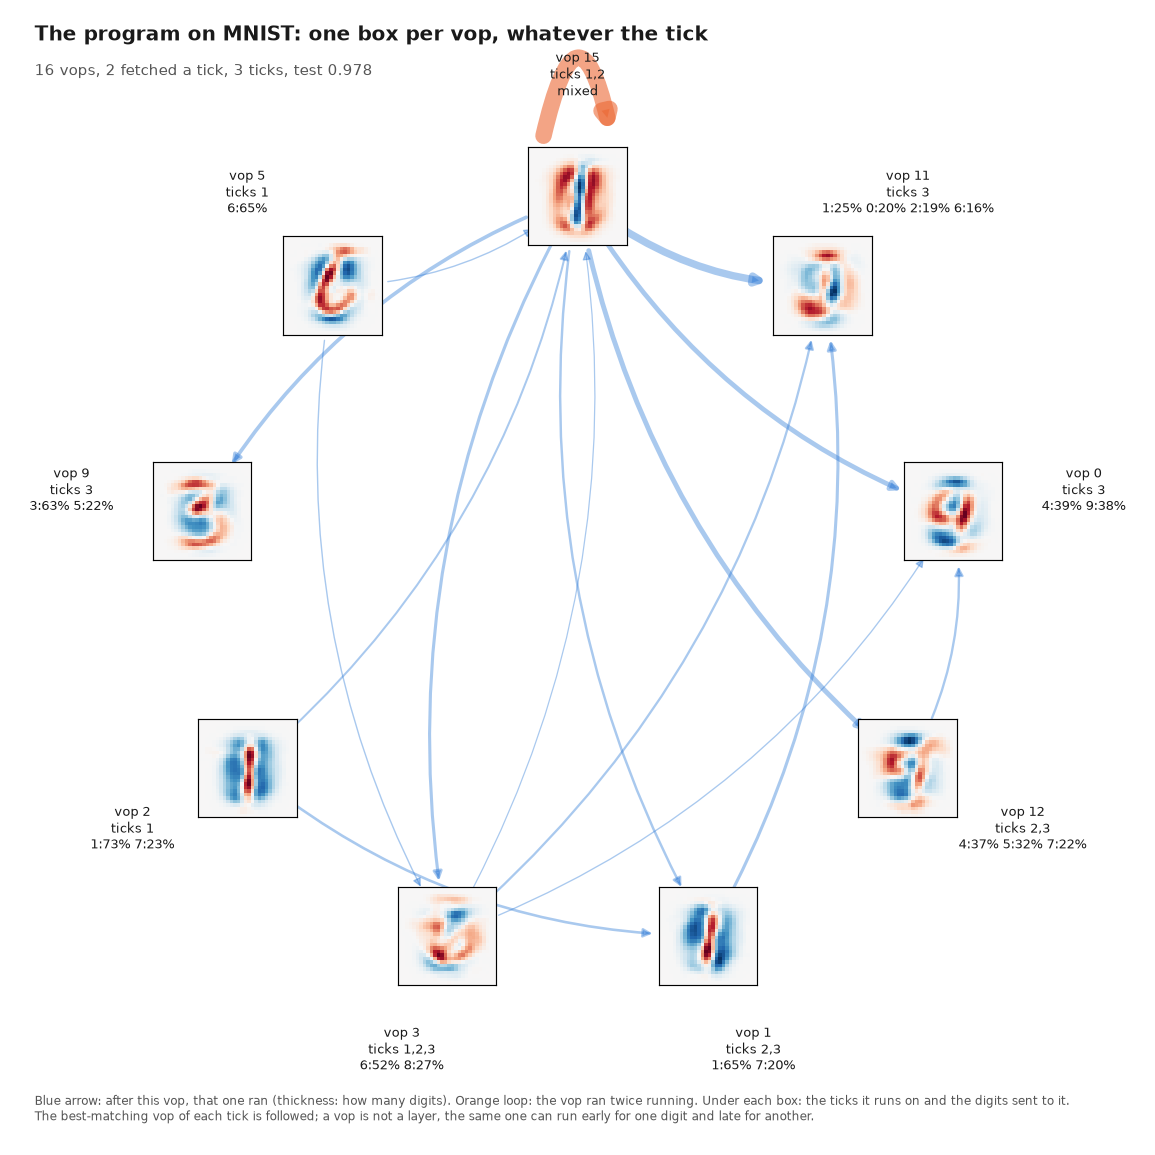
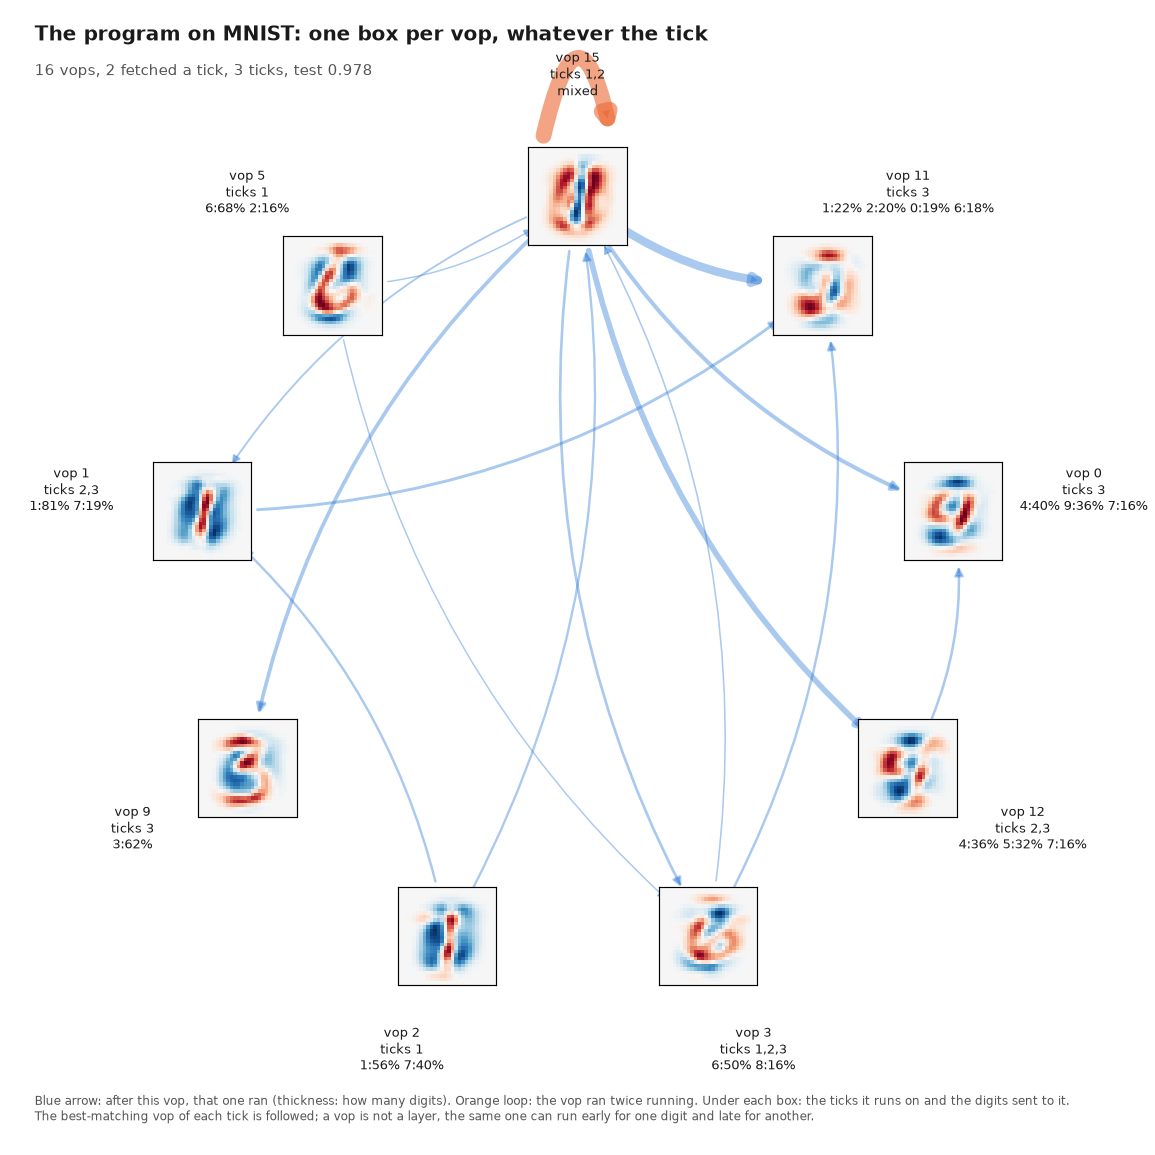
look.sh: the paths each digit takes, over all 10,000 test digits
Claude-Session: https://claude.ai/code/session_017HqGWZrtcEnYCmw95DeUFv

diff --git a/vvm2/look.py b/vvm2/look.py
@@ -2,14 +2,16 @@
 
   python -m vvm2.look [OPS FETCHED TICKS]        default 16 2 3
 
-Trains one vvm, then follows the best-matching vop of every tick for 5,000 test digits and
-draws two pictures into docs/img/:
+Trains one vvm, then follows the best-matching vop of every tick for the 10,000 test digits
+and draws pictures into docs/img/:
 
   walk-mnist.png   the walk as a graph: a column per tick, a box per vop in use at that
                    tick showing the average digit sent to it (less the average of all
                    digits), which digits those are, and lines for where its inputs go next
   vops-mnist.png   what each vop does to the answer: for the digits sent to it, how much
                    applying that vop alone moves the readout toward or away from each digit
+  digits-mnist.png the paths each digit takes: for every digit, its commonest whole paths,
+                   what share of that digit takes each, and the average of the digits on it
   program-mnist.png  the same walks with one box per vop, whatever the tick: an arrow from
                    a vop to the vop that ran after it, a loop where a vop ran twice running.
                    A vop is not a layer: the same vop can run early for one digit and late
@@ -67,7 +69,7 @@ def main():
     torch.manual_seed(0)
     model = VopVVM(784, 10, d=64, ticks=ticks, ops=ops, k=k)
     _, test, _ = train(model, data, 3000, 128, 3e-3, 0)
-    x, y = data[2][:5000], data[3][:5000]
+    x, y = data[2], data[3]  # all 10,000 test digits, about 1,000 of each
     model.eval()
     with torch.no_grad():
         steps = walk(model, x)
@@ -103,6 +105,7 @@ def main():
     draw_walk(nodes, tops, test, ops, k)
     draw_vops(nodes, ops)
     draw_program(tops, x, y, base, test, ops, k)
+    draw_digits(tops, x, y, test, ops, k)
 
 
 def draw_walk(nodes, tops, test, ops, k):
@@ -230,6 +233,58 @@ def draw_program(tops, x, y, base, test, ops, k):
               "not a layer, the same one can run early for one digit and late for another.",
               fontsize=8.5, color=MUTED)
     fig.savefig("docs/img/program-mnist.png", dpi=105)
+    plt.close(fig)
+
+
+def draw_digits(tops, x, y, test, ops, k, show=5):
+    """A row per digit: its commonest whole paths, the share of that digit on each, and the
+    average image of the examples that took it."""
+    ticks = tops.shape[1]
+    fig = plt.figure(figsize=(15, 13.5), facecolor="white")
+    back = fig.add_axes([0, 0, 1, 1])
+    back.set_axis_off()
+    back.set_xlim(0, 1)
+    back.set_ylim(0, 1)
+    print("the paths each digit takes")
+    for d in range(10):
+        m = y == d
+        n = int(m.sum())
+        paths = Counter(map(tuple, tops[m].tolist()))
+        cy = 0.9 - d * 0.086
+        ax = fig.add_axes([0.035, cy - 0.034, 0.05, 0.068])
+        ax.imshow(x[m].mean(dim=0).view(28, 28).numpy(), cmap="gray_r")
+        ax.set_xticks([])
+        ax.set_yticks([])
+        common = paths.most_common(show)
+        covered = sum(c for _, c in common) / n
+        back.text(0.095, cy + 0.012, "digit %d" % d, fontsize=13, color=INK, weight="bold")
+        back.text(0.095, cy - 0.014, "%d examples\n%d different paths" % (n, len(paths)),
+                  fontsize=8.5, color=MUTED, va="top")
+        line = "  digit %d (%d): %d paths;" % (d, n, len(paths))
+        for j, (path, c) in enumerate(common):
+            cx = 0.215 + j * 0.146
+            on = m & (tops == torch.tensor(path)).all(dim=1)
+            ax = fig.add_axes([cx, cy - 0.034, 0.05, 0.068])
+            ax.imshow(x[on].mean(dim=0).view(28, 28).numpy(), cmap="gray_r")
+            ax.set_xticks([])
+            ax.set_yticks([])
+            back.text(cx + 0.056, cy + 0.012, "%.0f%%" % (100 * c / n), fontsize=13,
+                      color="#2a78d6" if j == 0 else INK, weight="bold")
+            back.text(cx + 0.056, cy - 0.016, " > ".join(map(str, path)), fontsize=9.5,
+                      color=INK)
+            line += "  %s %.0f%%" % ("-".join(map(str, path)), 100 * c / n)
+        back.text(0.215 + show * 0.146 - 0.004, cy, "rest\n%.0f%%" % (100 * (1 - covered)),
+                  fontsize=9, color=MUTED, va="center")
+        print(line)
+    back.text(0.035, 0.972, "The paths each digit takes", fontsize=15, color=INK, weight="bold")
+    back.text(0.035, 0.95, "%d vops, %d fetched a tick, %d ticks, test %.3f. All 10,000 test "
+              "digits. A path is the best-matching vop of each tick, in order." %
+              (ops, k, ticks, test), fontsize=10, color=MUTED)
+    back.text(0.035, 0.022, "Left: the average of all test examples of the digit. Then its %d "
+              "commonest paths: the share of that digit's examples that took the path, the vops "
+              "in order, and the average of the examples that took it." % show, fontsize=9,
+              color=MUTED)
+    fig.savefig("docs/img/digits-mnist.png", dpi=105)
     plt.close(fig)
 
 
